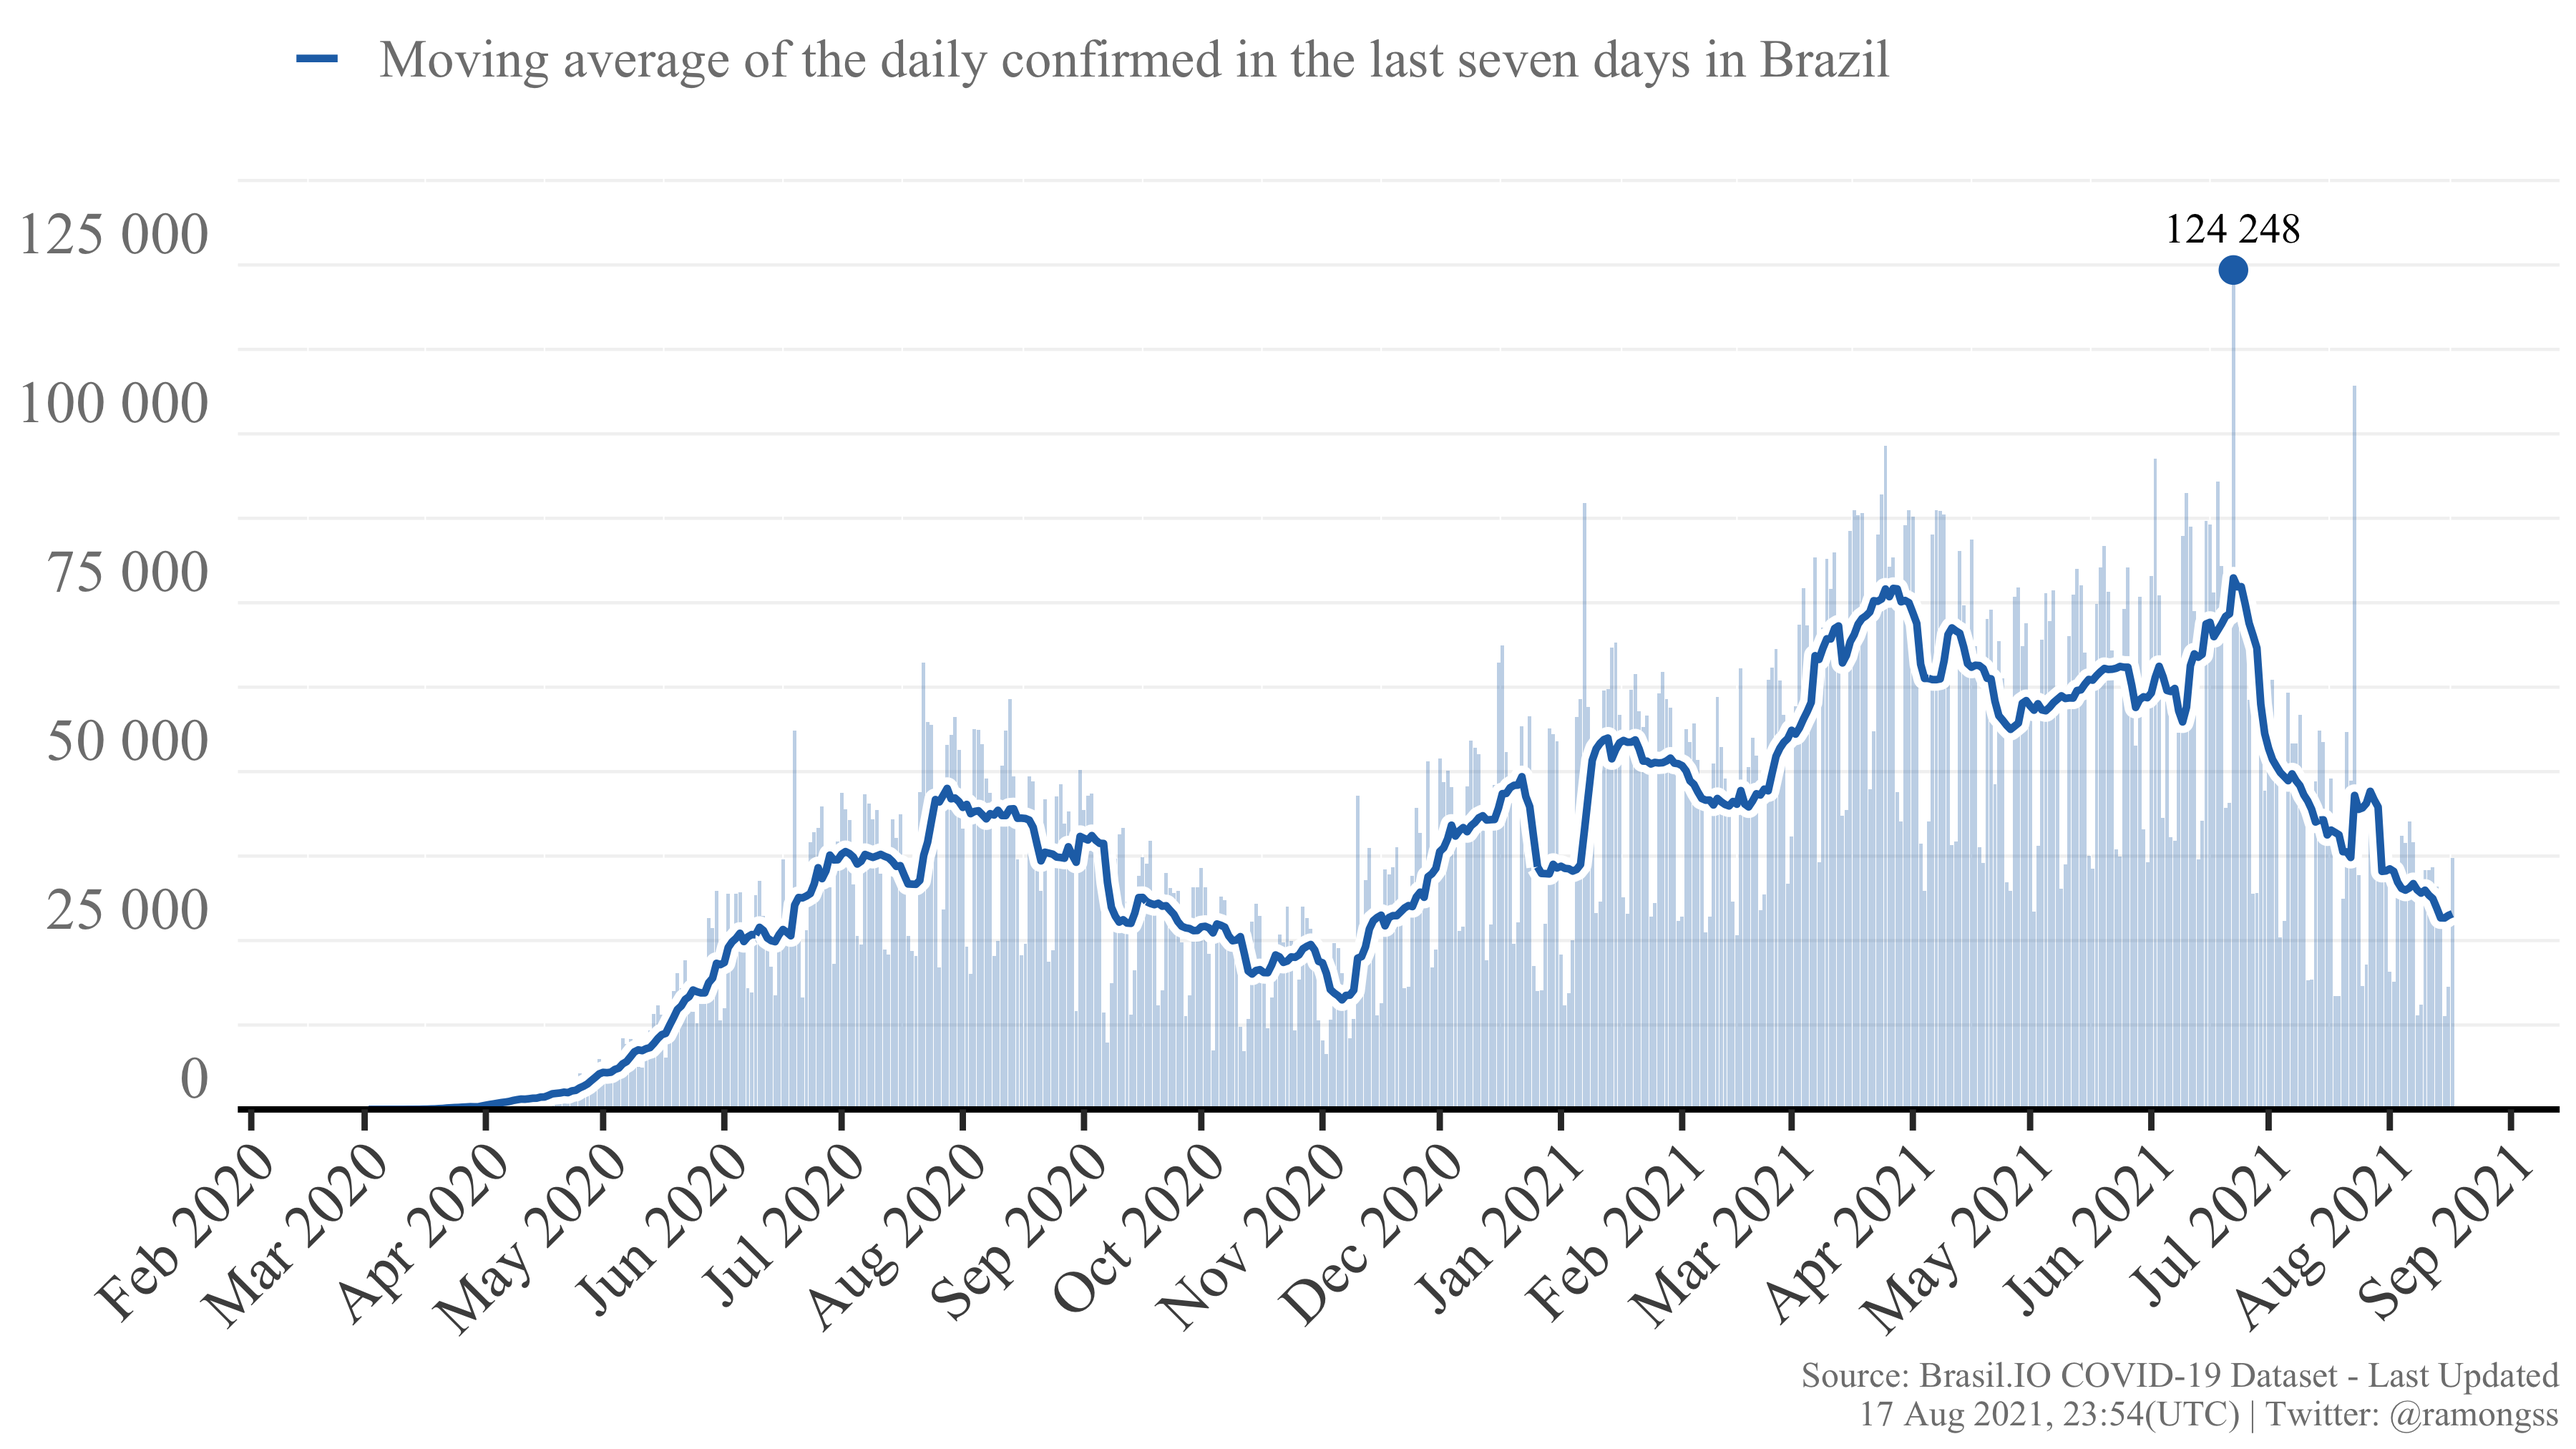
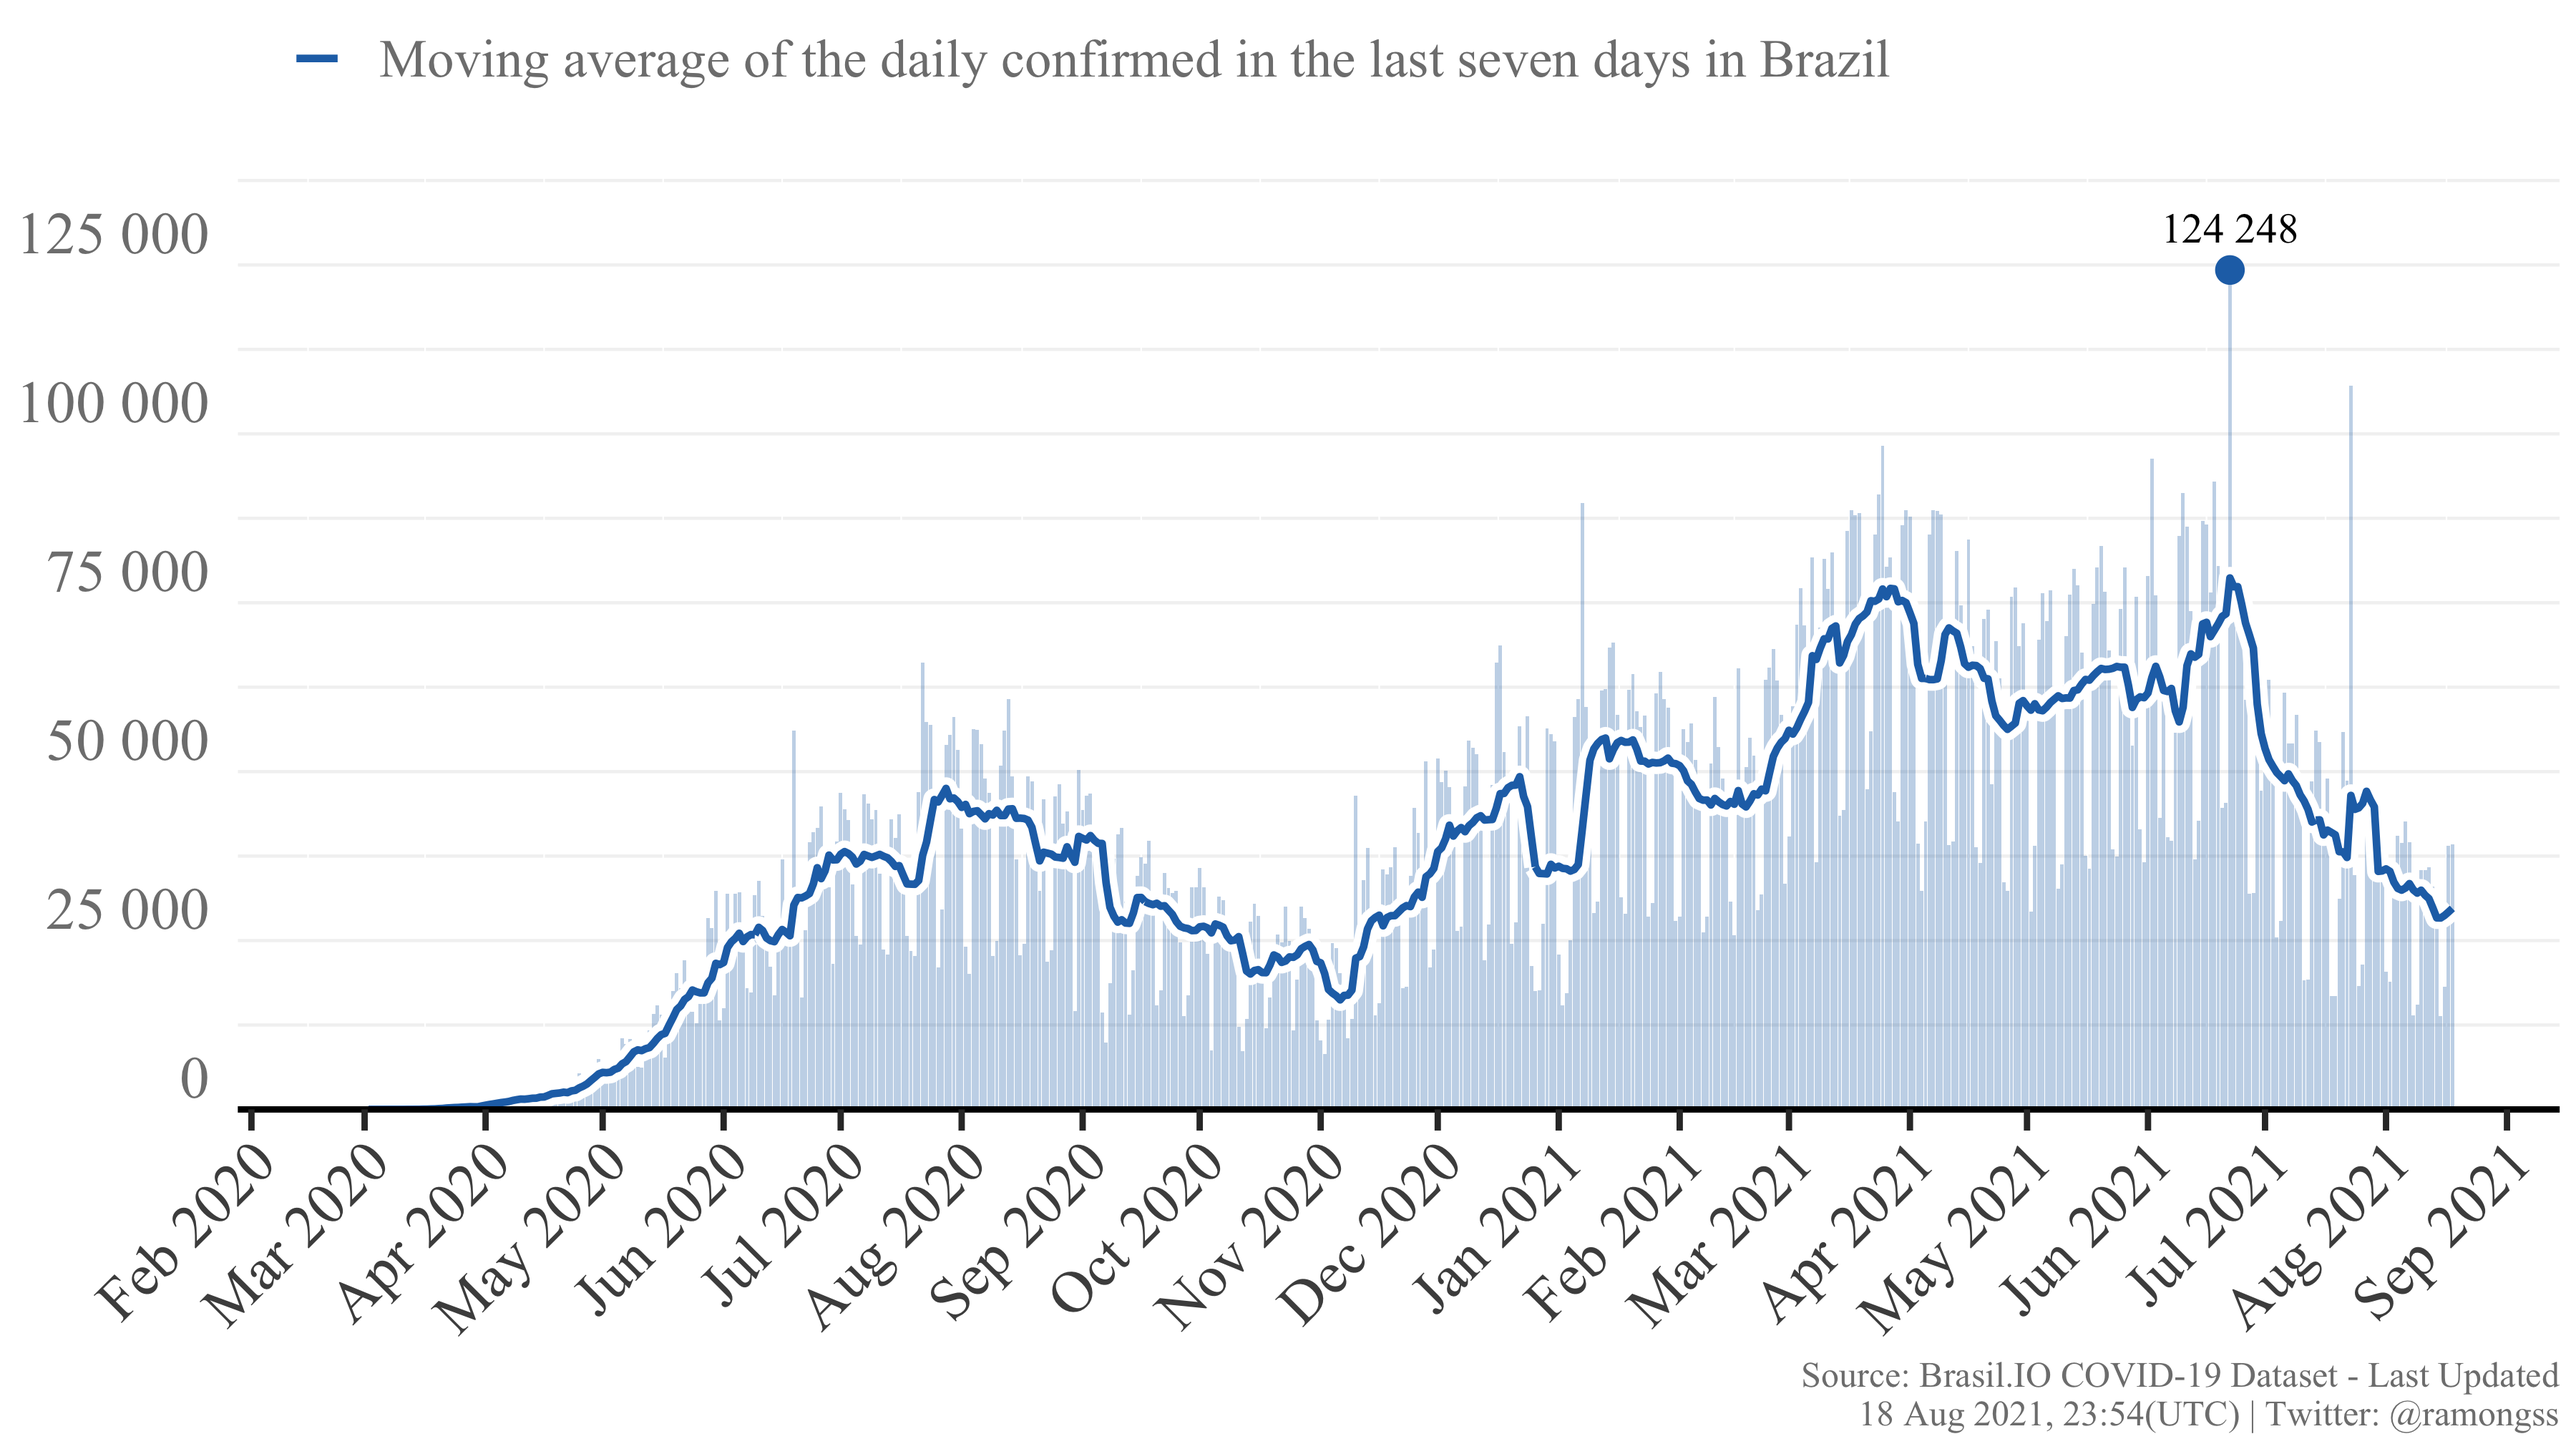
Re-build README.Rmd

diff --git a/README.md b/README.md
@@ -27,8 +27,8 @@ download_brasilio_table <- function(dataset = "covid19", table_name){
 
 ## COVID-19 Confirmed cases
 
-Currently, Brazil has a total of **20,423,747** confirmed cases at **17
-Aug, 2021**, with **37,199** new confirmed cases. The daily maximum
+Currently, Brazil has a total of **20,464,766** confirmed cases at **18
+Aug, 2021**, with **39,212** new confirmed cases. The daily maximum
 incidence was **124,248** confirmed cases at **22 Jun, 2021**. Here
 follows the Figure showing the confirmed case incidence as the bars, and
 the line as the moving average of the last 7 days.
@@ -37,8 +37,8 @@ the line as the moving average of the last 7 days.
 
 ## COVID-19 Deaths
 
-Currently, Brazil has a total of **570,930** deaths at **17 Aug, 2021**,
-with **1,070** new deaths. The daily maximum deaths incidence was
+Currently, Brazil has a total of **571,918** deaths at **18 Aug, 2021**,
+with **963** new deaths. The daily maximum deaths incidence was
 **4,148** deaths at **08 Apr, 2021**. Here follows the Figure showing
 the deaths incidence as the bars, and the line as the moving average of
 the last 7 days.
@@ -49,4 +49,4 @@ the last 7 days.
 
 This page is daily updated automatically using Github Actions.
 
-*Last update: 17 Aug 2021, 23:54 (UTC).*
+*Last update: 18 Aug 2021, 23:54 (UTC).*
